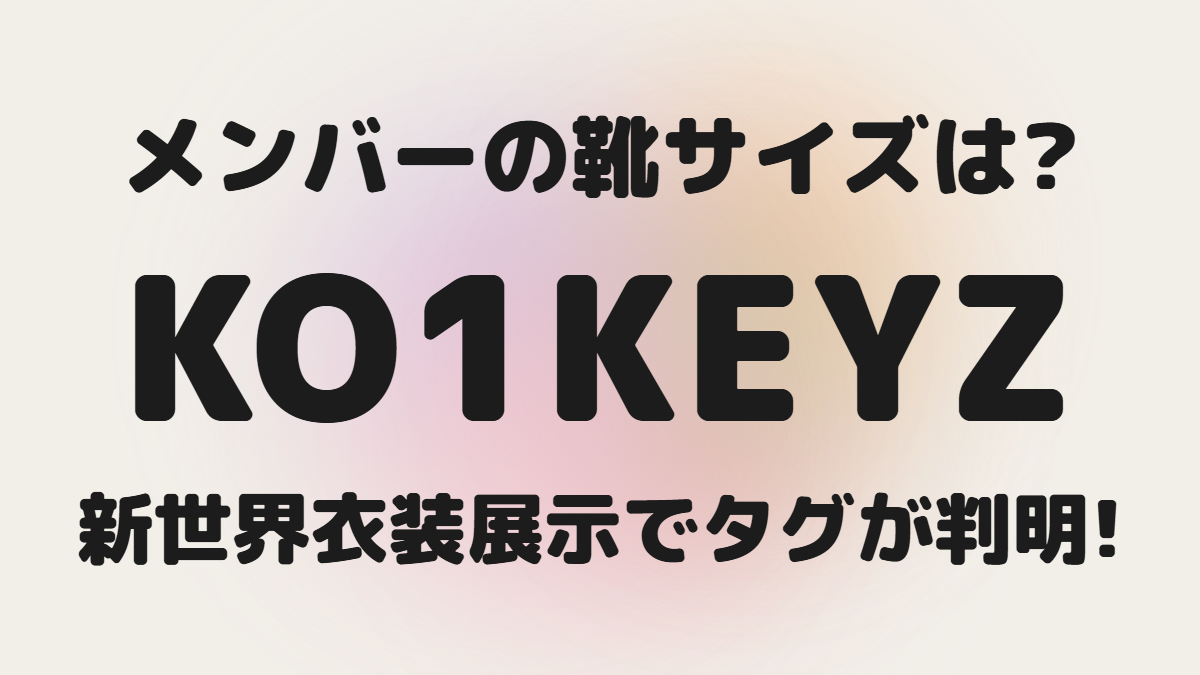
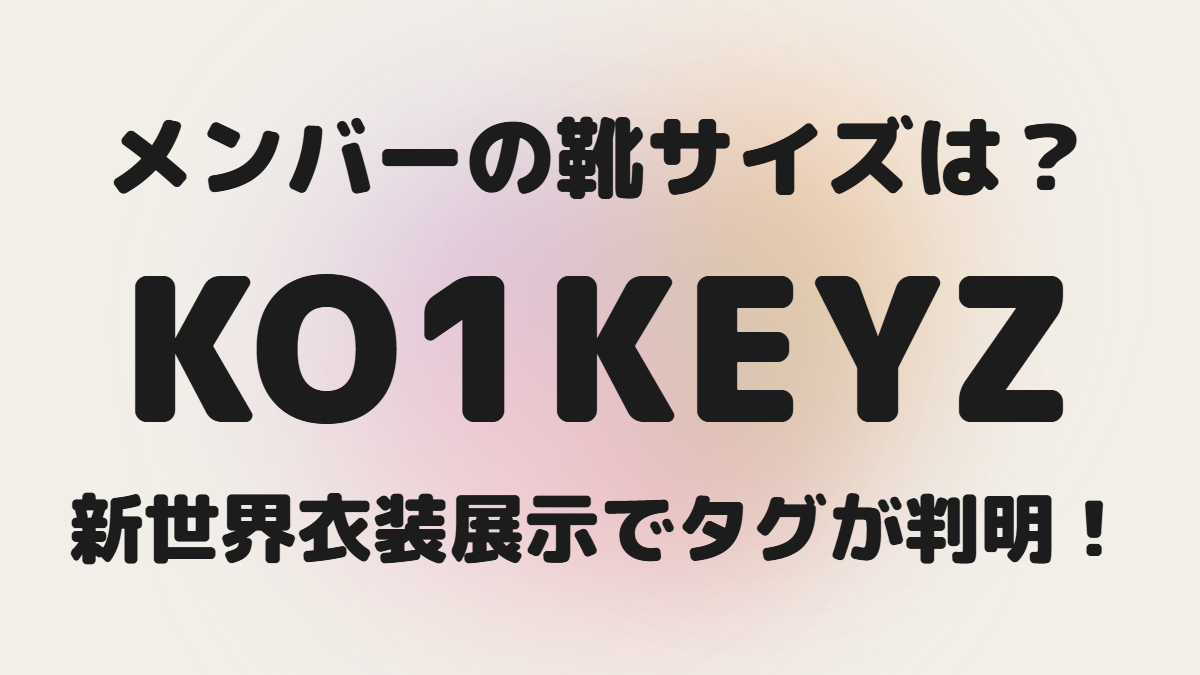
Use full-width ?/! in JP titles going forward
User asked for full-width punctuation marks in Japanese article
titles ("大文字"/？！) instead of half-width ?/!. Documented as a
standing rule in docs/rules.md (JP titles only, KR/EN unaffected)
and applied it to the shoe-size article's title and eyecatch.

diff --git a/build_and_post_ko1keyz_shoe_size.py b/build_and_post_ko1keyz_shoe_size.py
@@ -122,7 +122,7 @@ HEYAWARI_URL = "https://chomoand-1.com/what-is-the-room-allocation-at-11122"
 RYUJI_LEFTHANDED_URL = "https://chomoand-1.com/is-ryuji-left-handed-investiga-11388"
 DEBUT_SINGLE_URL = "https://chomoand-1.com/when-will-ko1keyzs-debut-singl-10866"
 
-title = "KO1KEYZメンバーの靴サイズは?新世界衣装展示で判明!"
+title = "KO1KEYZメンバーの靴サイズは？新世界衣装展示で判明！"
 
 blocks = []
 
@@ -249,9 +249,9 @@ print("PREVIEW", f"{WP_URL}/?p={post['id']}")
 EYECATCH_PATH = ROOT / "images" / "ko1keyz_shoe_size_eyecatch.png"
 subprocess.run([
     sys.executable, str(ROOT / "tools" / "eyecatch_koikeyz.py"),
-    "--top", "メンバーの靴サイズは?",
+    "--top", "メンバーの靴サイズは？",
     "--main", "KO1KEYZ",
-    "--bottom", "新世界衣装展示でタグが判明!",
+    "--bottom", "新世界衣装展示でタグが判明！",
     "--out", str(EYECATCH_PATH),
     "--seed", str(post["id"]),
 ], check=True)

diff --git a/docs/rules.md b/docs/rules.md
@@ -7,6 +7,7 @@
 - タイトルは疑問形・または疑問に答える形にする(例:「〇〇とは?」「〇〇の理由を解説」「〇〇はどうなった?」)
 - **タイトルは最大35文字までに収める**(2026-08-03にユーザー指示、当初45文字だったが同日中に35文字へ再指示・上書き)。検索結果での見切れを防ぐため、記事タイトルを決めたら文字数を数えて確認する。
 - **タイトルの一番最後はなるべく「?」か「!」で締める**(2026-08-12にユーザー指示。例:「吉澤閑也の誕生日会場はどこ?GLAMSと判明!」)。文字数(35文字以内)の都合や文脈的に不自然になる場合は無理に付けなくてよい。
+- **タイトル中の「?」「!」は全角(「？」「！」)を使う**(2026-08-20にユーザー指示。「タイトルの記号は大文字がいいな 約束」)。半角(`?`/`!`)だと日本語タイトルの中で文字が小さく見切れて見えるため、日本語タイトル(chomoand.com・chomoand-0.com・chomoand-1.com JP版)では常に全角を使う。**韓国語版・英語版のタイトルは対象外**(ハングル・アルファベットの文中では半角`?`/`!`が自然なため、KR/EN版は従来通り半角のままでよい)。アイキャッチ画像(`--top`/`--bottom`)のテキストも同じ理由でタイトルと同じ全角記号に揃える。この指示が出た時点の既存記事(公開済み・下書き問わず)の一括修正は対象外、今後新規に作るタイトルから適用する。
 - **アクセサリー・私服など「私物特定」系記事のタイトルには、着用場所・シーン(番組名・会場名・共演者との集まりなど)を入れて絞り込む**(2026-08-20にユーザー指示)。「〇〇のピアスは?」のような書き方だと本人の全ピアス記事のようにざっくりしすぎるため、「マツダスタジアムで〇〇が付けていたピアスのブランドは?」のように、いつ・どこで身につけていたものかが分かる形にする。撮影場所が非公開の場合は「〇〇との2ショットで」のように共演者・シーンで代用してよい。
   - **グループ間の交流・コラボが絡む題材では、元ネタ投稿に付いているファン発のクロスオーバー呼称(ハッシュタグ)がSEO的に強い場合がある**(2026-08-20、千賀健永×宮近海斗の帽子記事で追加指示。元ツイートのハッシュタグ「#いつもココロに千ちゅーぶ」「#キストラ」を見た上で「この辺のハッシュタグは使えない?」と提案があった)。「キストラ」(Kis-My-Ft2×Travis Japanのファン間呼称)のように、2グループの絡みを指す定着した通称がある場合、事実確認([WebSearchなどで実際に使われている呼称か裏取り必須])できたら`【】`でタイトル先頭に入れると、個人名だけの検索者と呼称で検索するファンの両方を拾える。呼称の由来が不確かなまま憶測で使わない。
   - **私物の持ち主が1人だけの記事で共演者名も入れる場合、「AとBの〇〇」という書き方だと2人の共有物のように読めてしまう**(2026-08-20、上記記事で「千賀健永と宮近海斗の帽子は、だと千賀も被ってるような言い回しじゃない?」と指摘)。「Bがかぶってた〇〇」「Bが着けていた〇〇」のように、私物の持ち主(B)を主語にした一節で所有を明確にし、共演者名(A)は文字数が厳しければタイトルから削って本文・キストラ等の呼称タグ側に譲ってもよい。実例:「【キストラ】千賀健永と宮近海斗の帽子は?」→「【キストラ】宮近海斗がかぶってた帽子は?」に修正。
